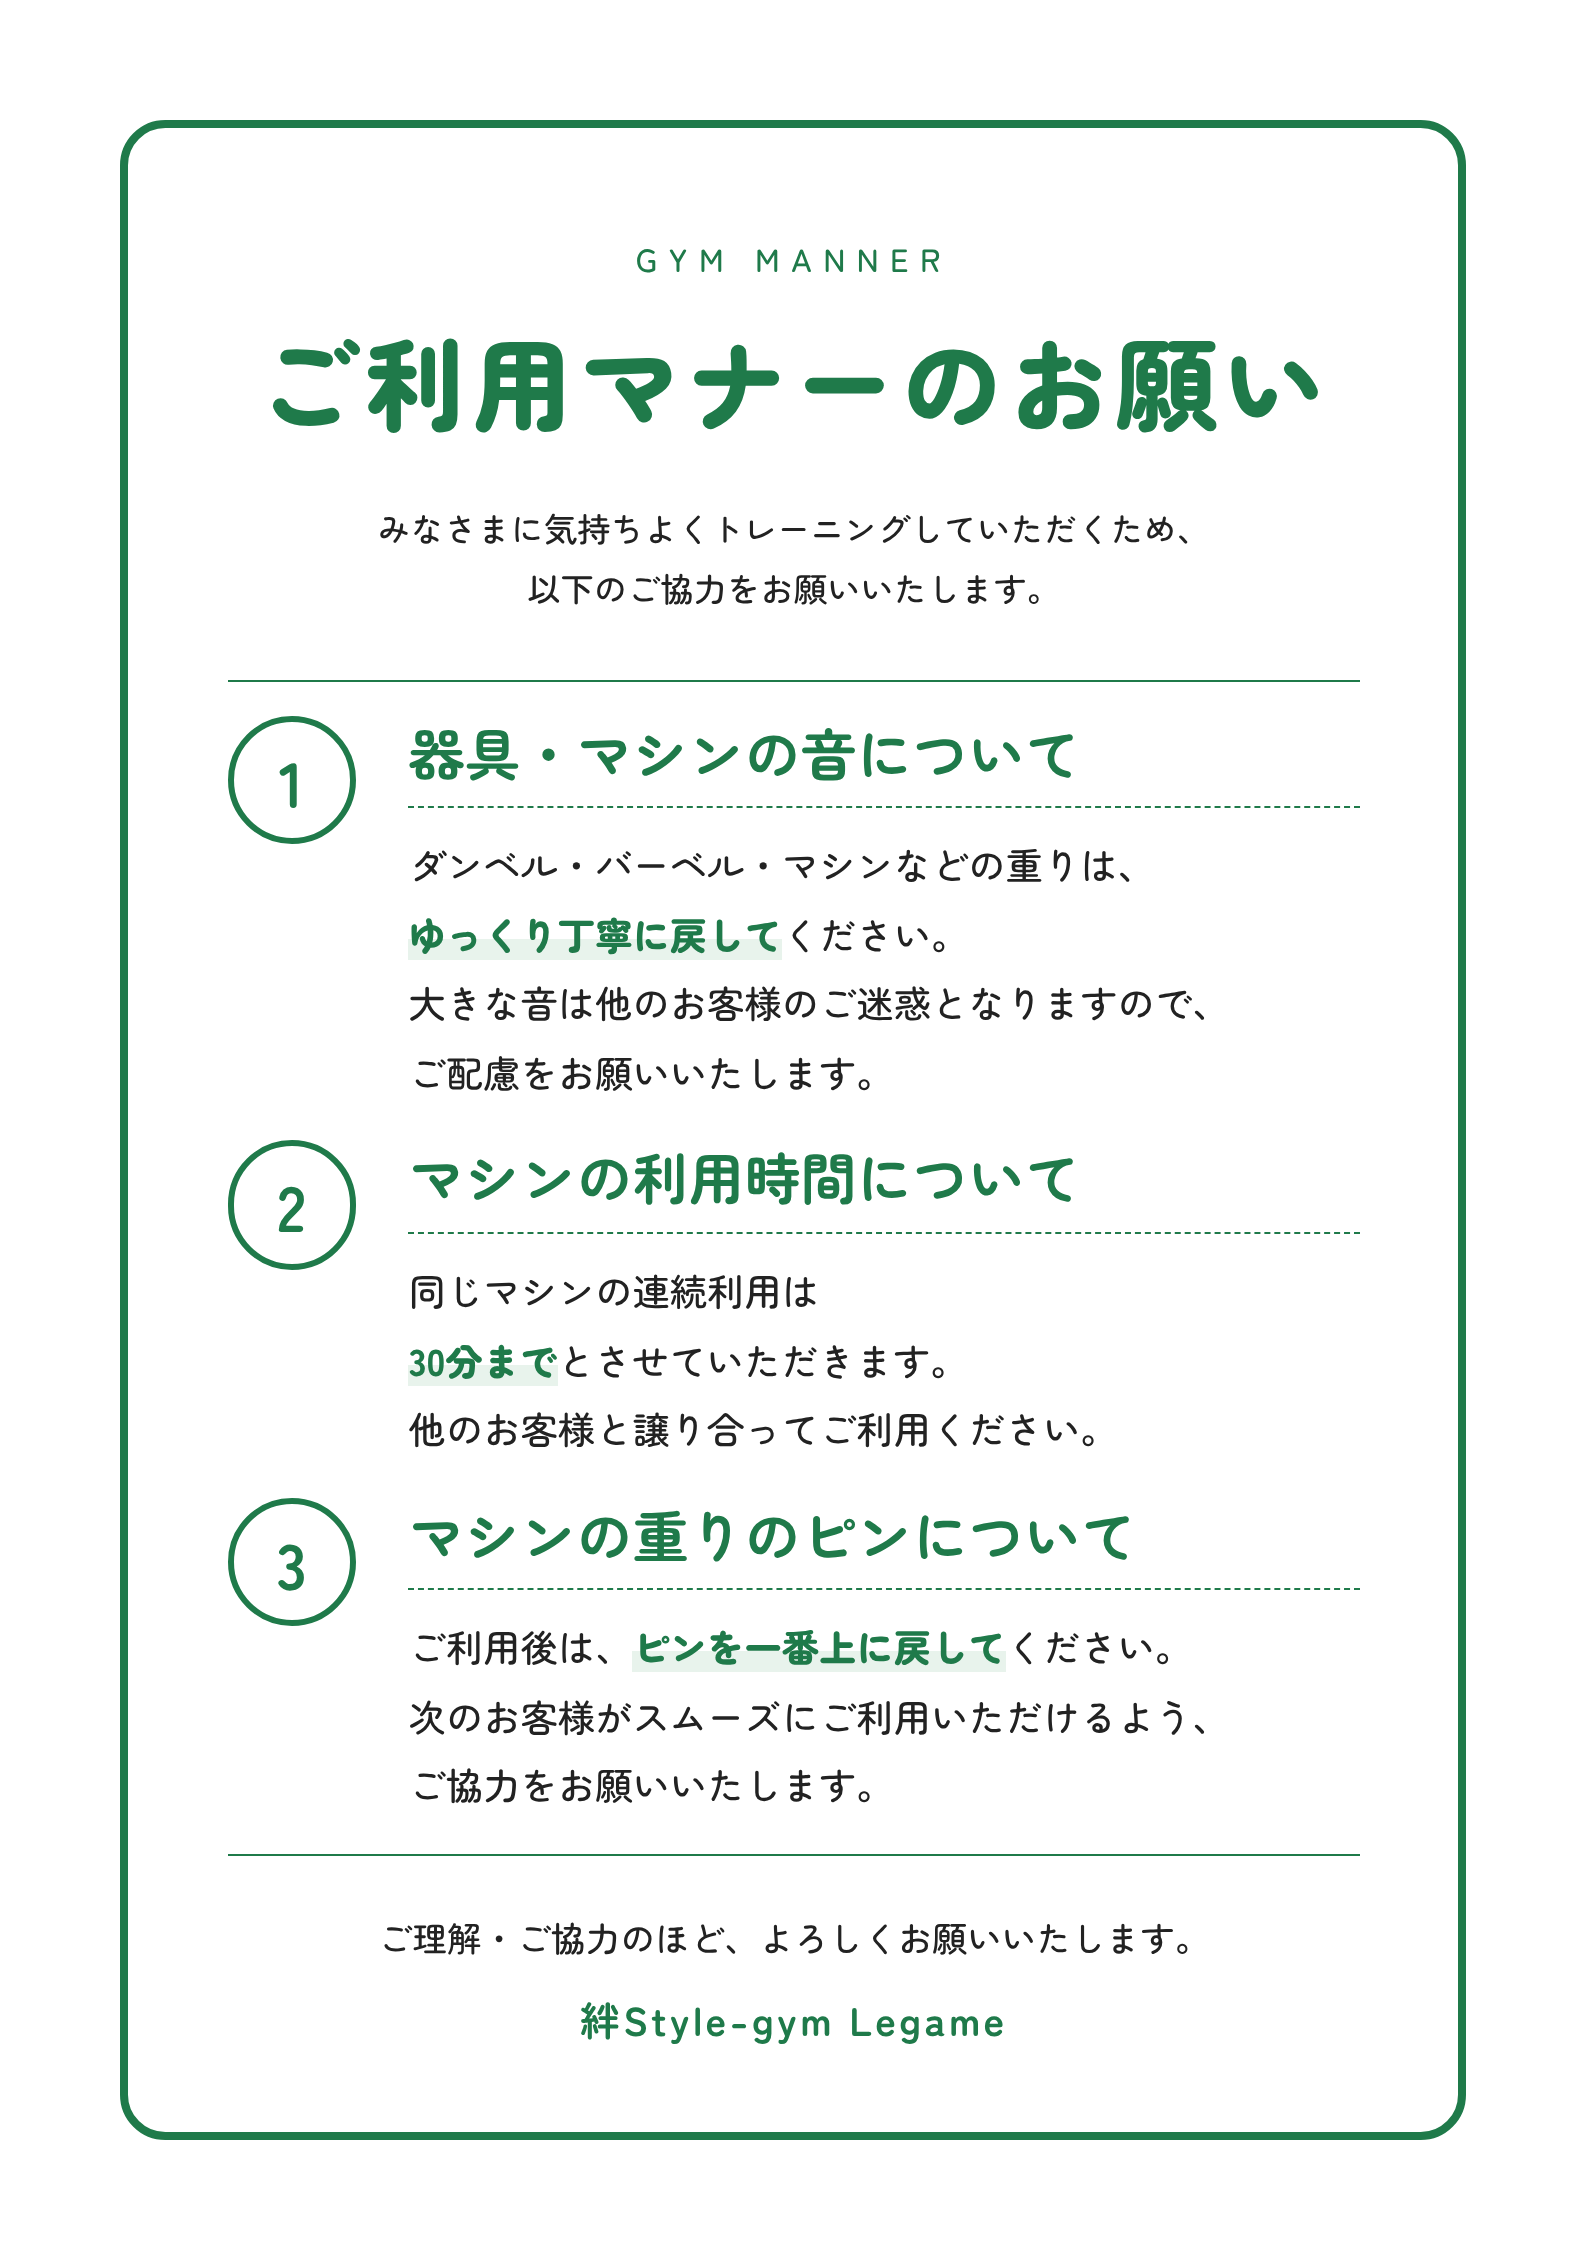
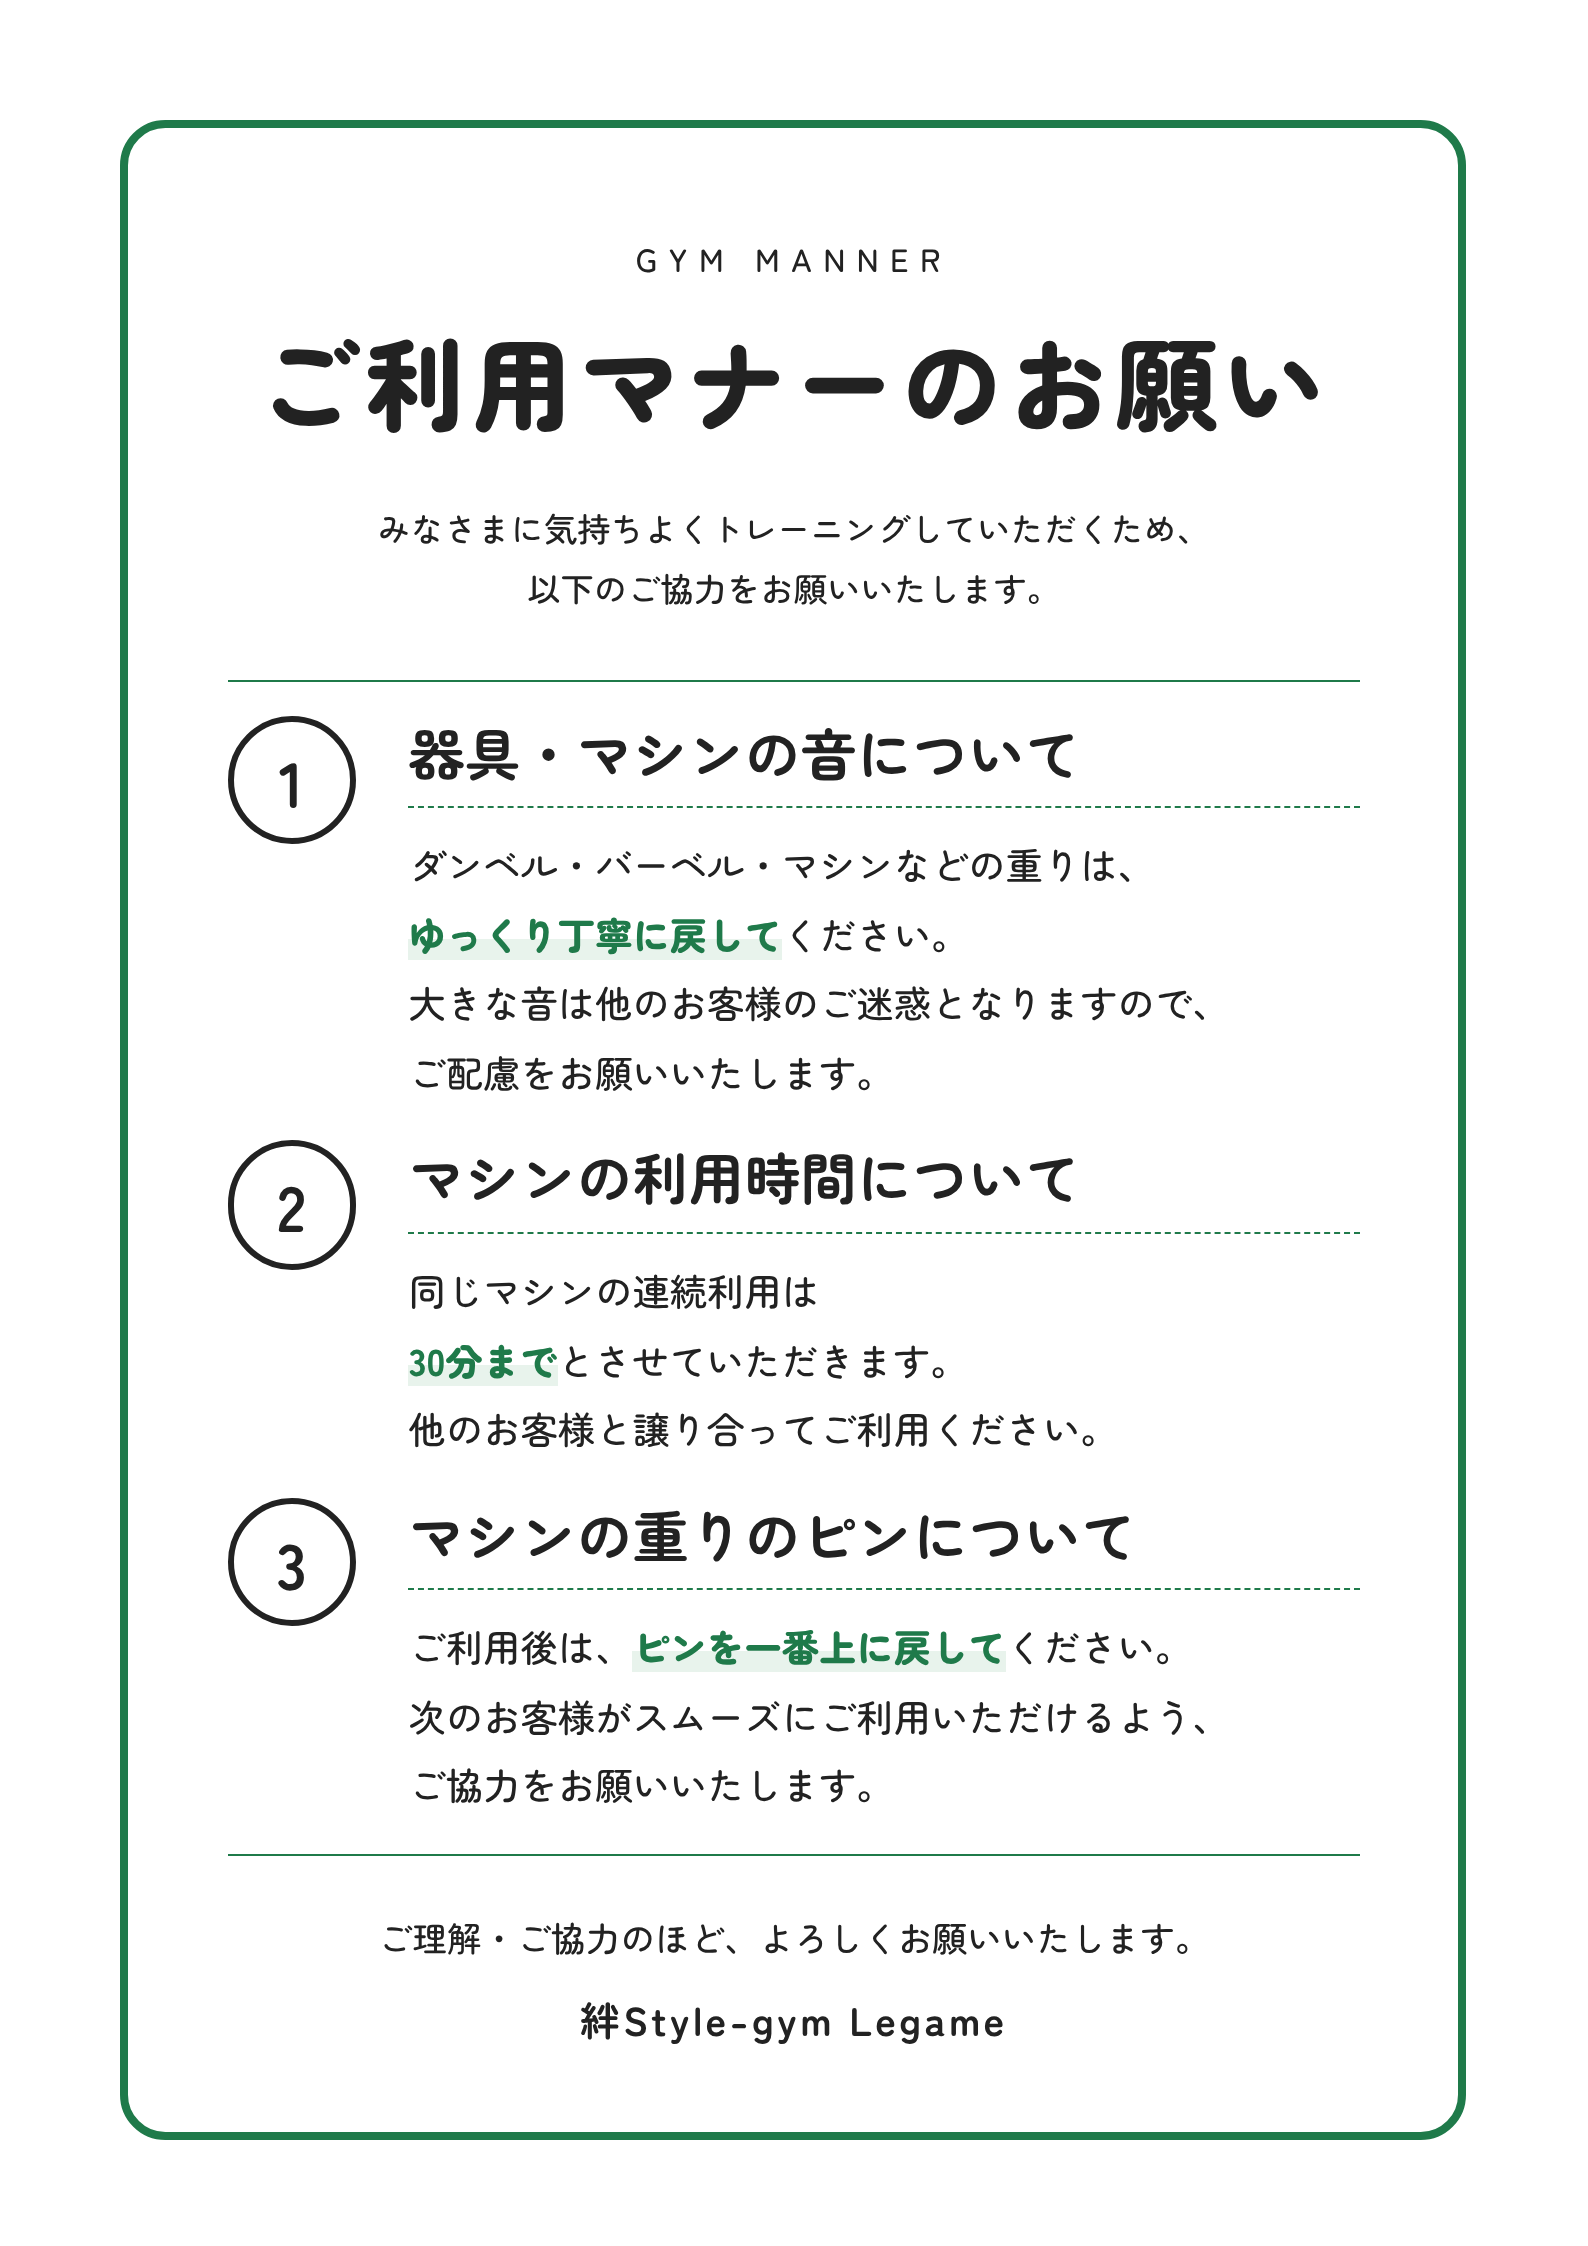
ジムマナーPOP：タイトル・見出し・番号も黒に、強調部分のみ緑
Claude-Session: https://claude.ai/code/session_01VFahEHwE4BeB65EUuU6KEq

diff --git a/pop/gym-manner/gym-manner.html b/pop/gym-manner/gym-manner.html
@@ -13,7 +13,7 @@
   body {
     font-family: "Zen Maru Gothic", "IPAGothic", sans-serif;
     font-weight: 500;
-    color: var(--green);
+    color: var(--ink);
     -webkit-print-color-adjust: exact; print-color-adjust: exact;
   }
   .page {
@@ -44,7 +44,7 @@
   .item { display: flex; gap: 7mm; align-items: flex-start; }
   .num {
     flex: 0 0 17mm; height: 17mm; border-radius: 50%;
-    border: 0.8mm solid var(--green);
+    border: 0.8mm solid var(--ink);
     display: flex; align-items: center; justify-content: center;
     font-size: 24pt; font-weight: 700; line-height: 1;
   }
